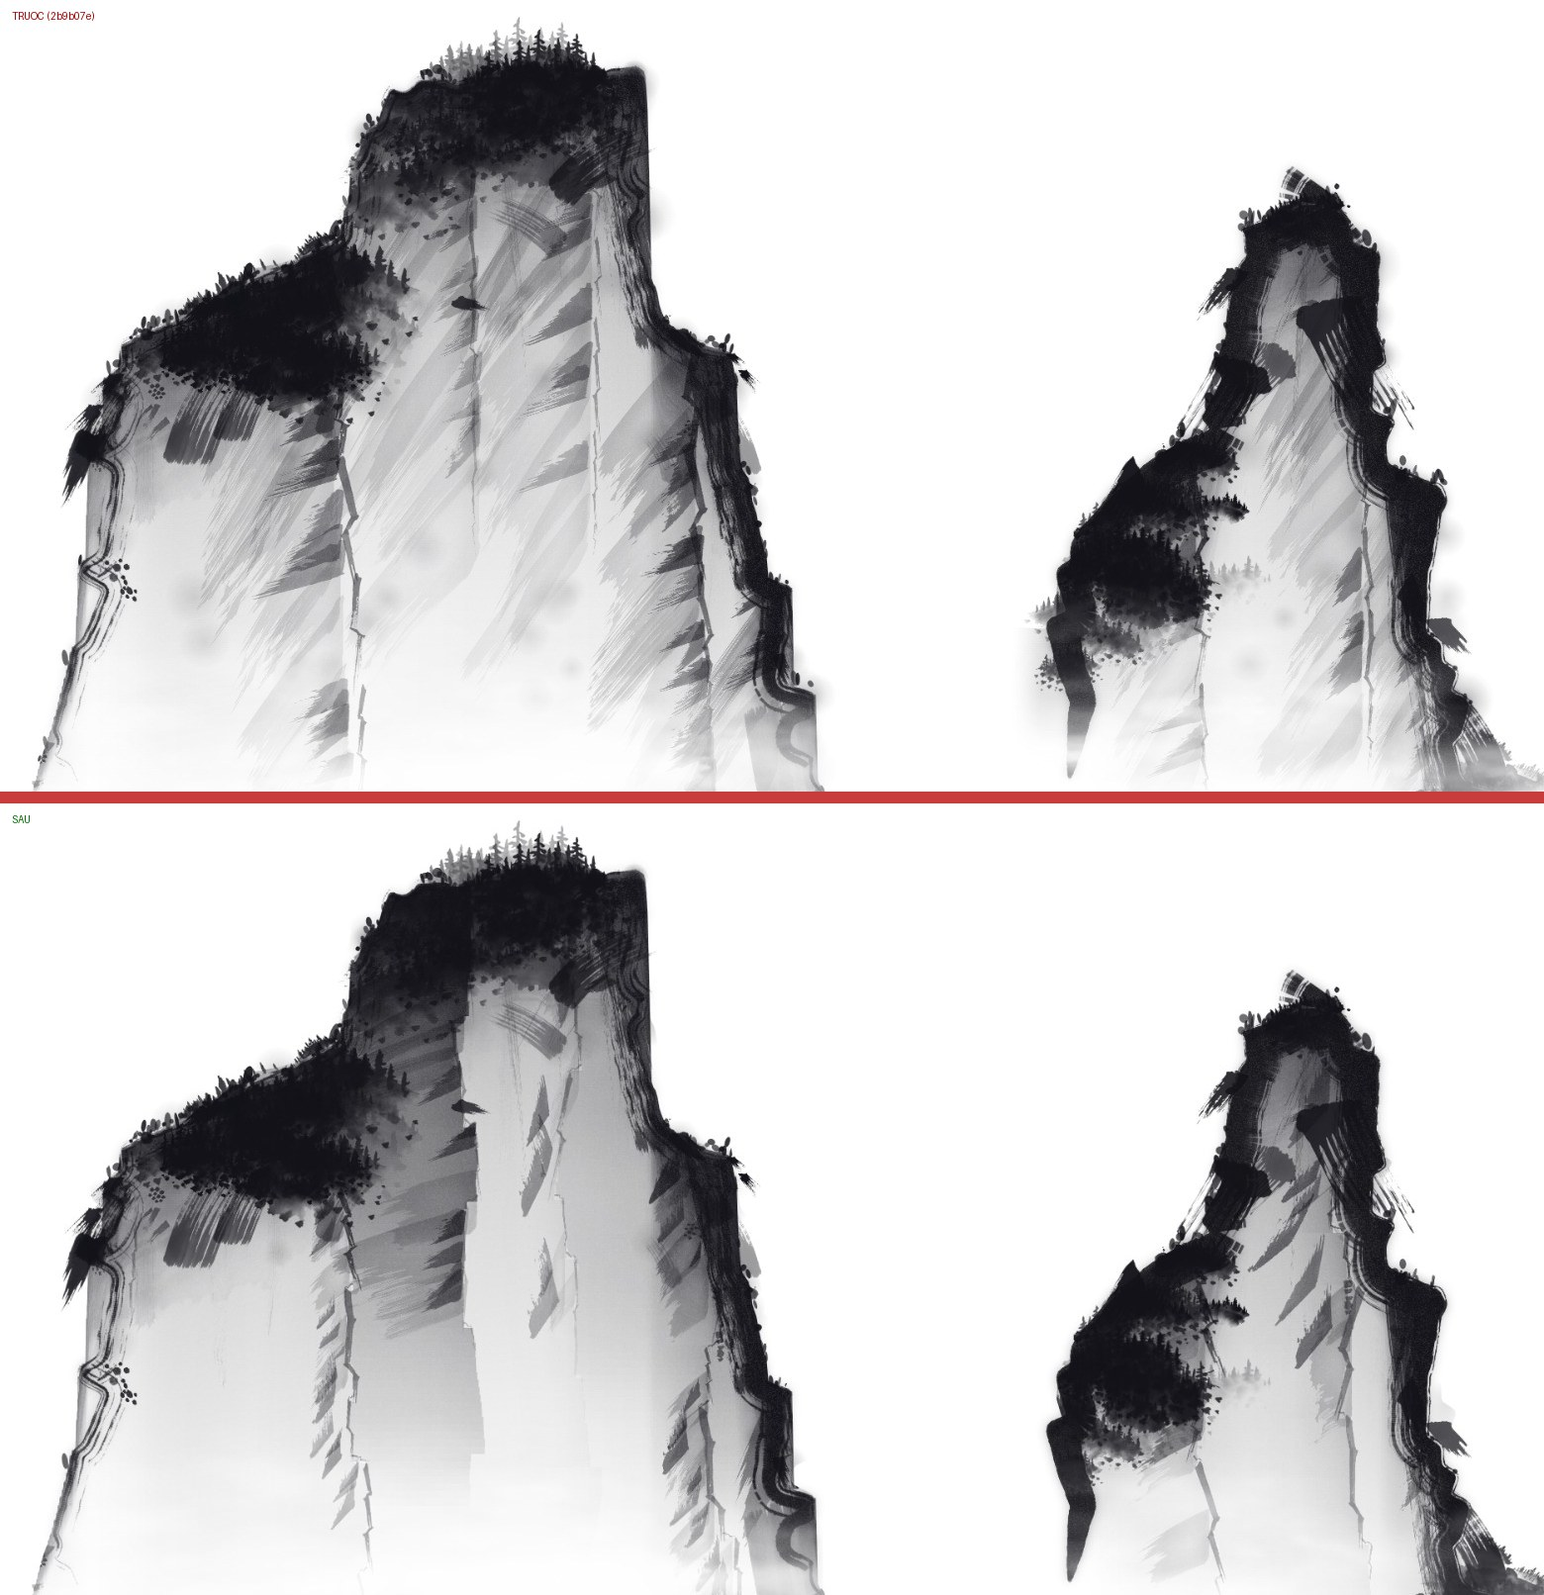
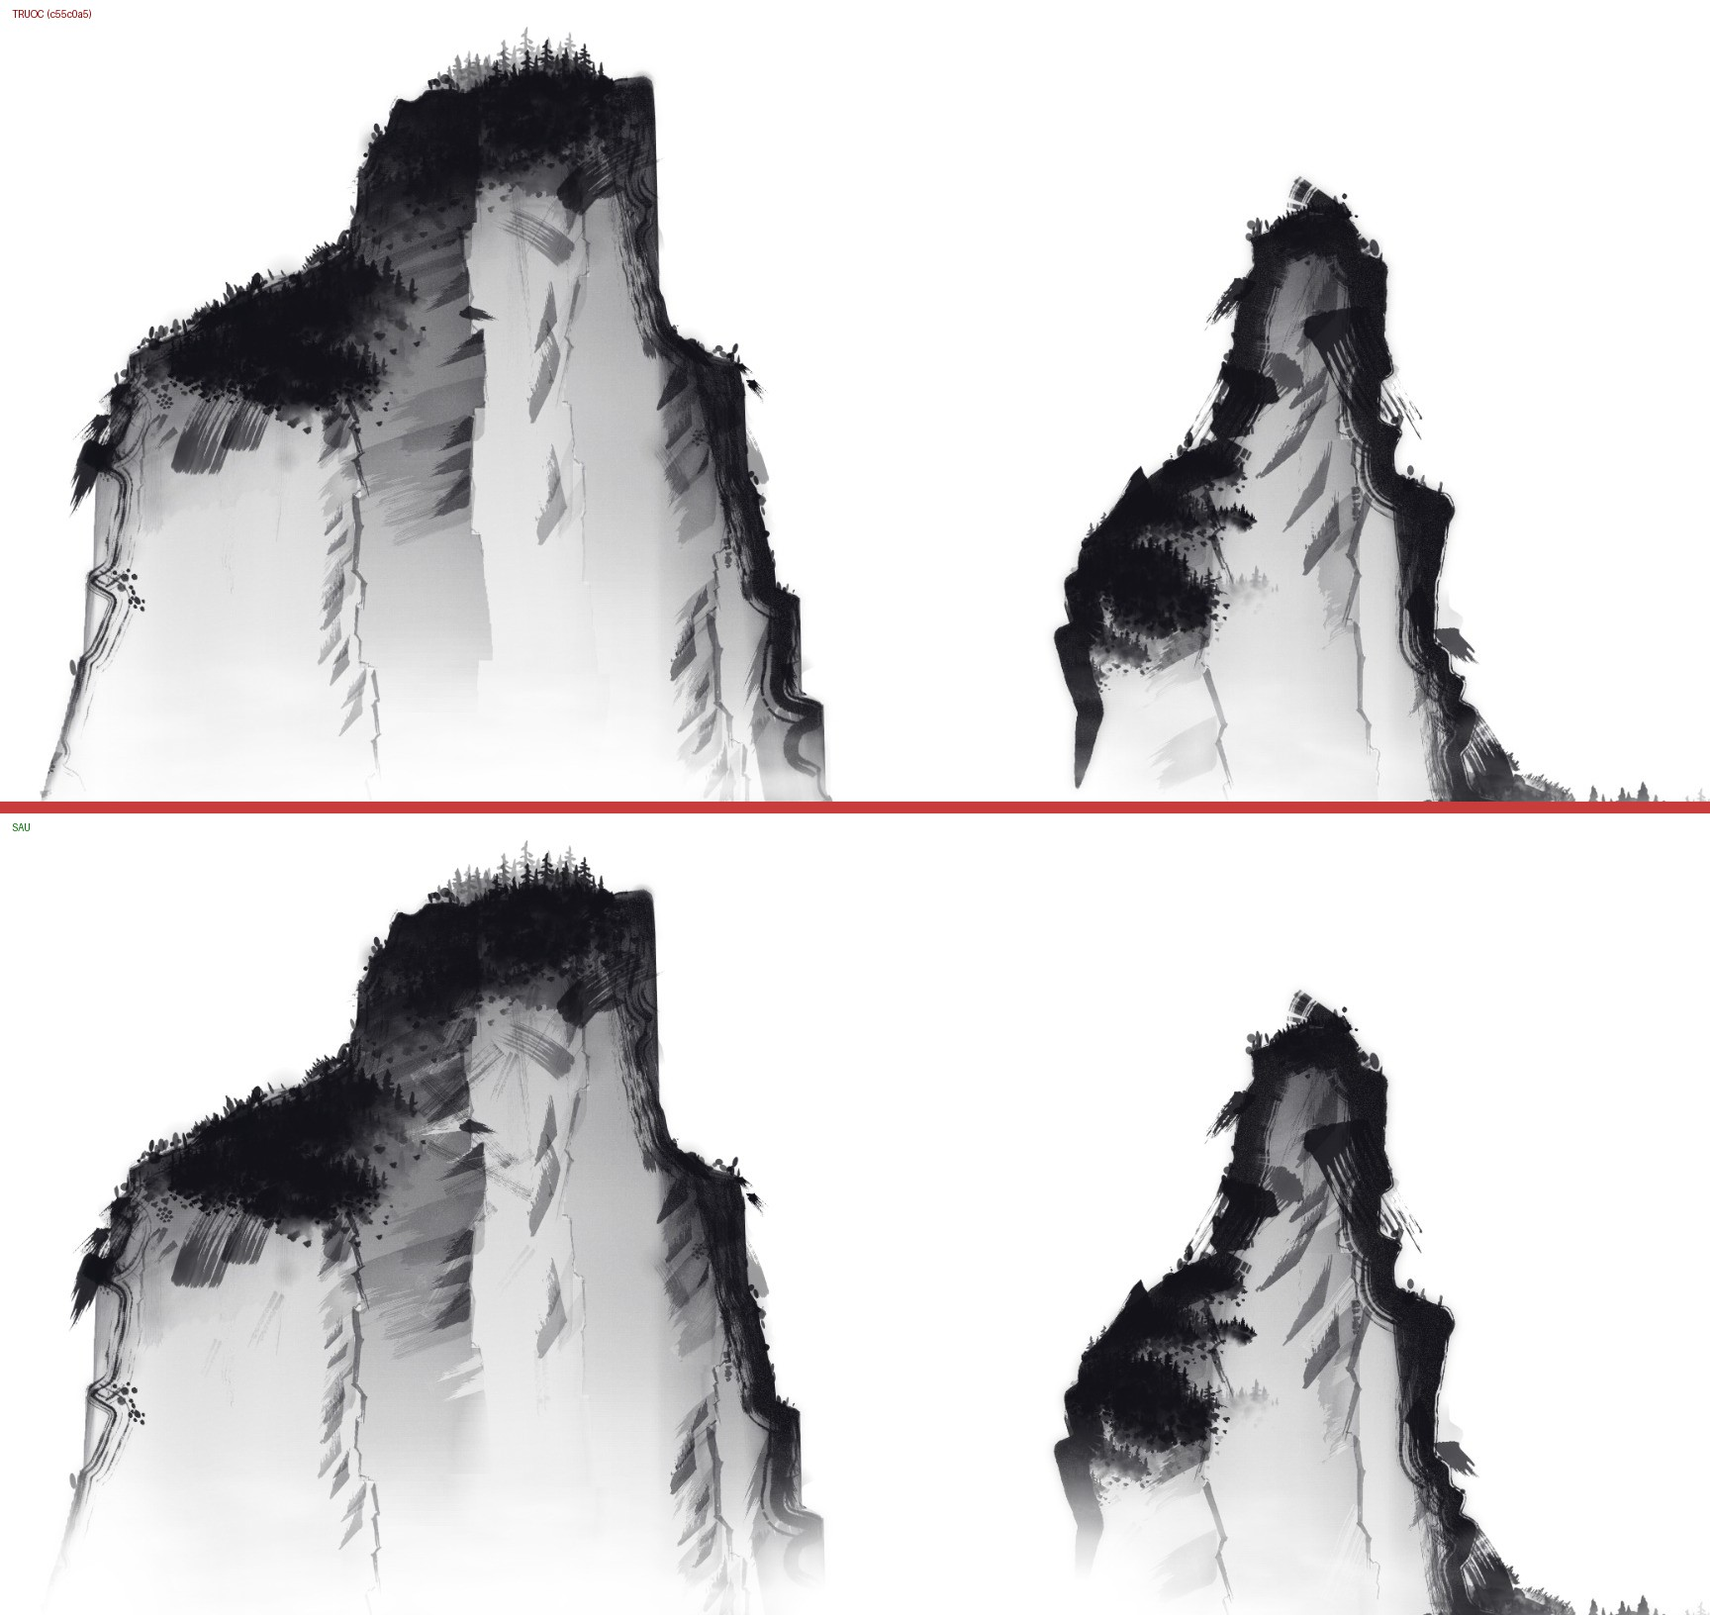
Rock mountain wall v4: torn slab edge, hemp lines on lit slabs, ends of the line lost in mist
Third critique on c55c0a5: the line between the dark slab and the lit one
beside it read as cut paper, the lit slab was bare, and a black pointed
shard stood at the right mountain's left foot.

- slab tone goes on a canvas of its own; its right edge softens below the
  foot of its crack and thins out in stretches along it
- dry drags and paper chops are wiped out of the tone along the crack, and a
  few dry drags run out of the dark slab across it
- lit slabs get a few pale hemp lines
- both ends of the ridge line that come down to the foot fade in a round of
  mist: the shard was the end of the ridge ink under an overhang

New marks use dice of their own, so v3's marks keep their places.

diff --git a/web/room/paint.js b/web/room/paint.js
@@ -520,15 +520,30 @@
               let th = clamp(0.75 - 0.45 * c.sl + 0.8 * (r3 - 0.5), 0.4, 1.2); if (Math.abs(th - pth) < 0.28) th = th > 0.8 ? th - 0.38 : th + 0.38; c.th = pth = th; c.dir = Math.PI / 2 + th; c.mode = Rk(); c.sz = 0.65 + 0.9 * Rk(); }); }
           // the tone, row by row between the column's two cracks: none at its lit left, deepening to the crack on its right; running out down the wall, unevenly.
           // (its top is the mountain's line, its sides two brushed cracks, its foot lost: no box.) Right of the last crack, the flank that looks away from the light
-          { raw(g); g.globalAlpha = 1; const RH = Math.max(2, Math.round(0.007 * H * dpr)), ink = (a) => `rgba(${INK},${clamp(a, 0, 1).toFixed(3)})`;
-            const cols = C.map((c, i) => ({ xL: (y) => i ? at(C[i - 1], y) : bx0, xR: (y) => at(c, y), tone: c.tone, lo: c.full ? 0.7 : c.tone > 0.25 ? 0.3 : 0, df: c.full ? 1 : 0.3 + 0.3 * Rk(), Lt: Math.min(0.75 * H, (c.main ? 1.25 : 1.7) * c.L /* not far past the foot of its crack: below it the tone's edge ran on plumb and ruled, a pane of glass */, c.dp * (0.65 + 0.3 * Rk())), y0: c.y0, ka: col(c.xl), kb: c.k, yfL: i ? C[i - 1].y0 + C[i - 1].L : 1e9 }));
-            if (C.length) { const c = C[C.length - 1]; if (bx1 - c.x0 > 0.03 * H) cols.push({ xL: (y) => at(c, y), xR: () => bx1, tone: (C.some((e) => e.full) ? 0.26 : 0.5) + 0.1 * Rk(), lo: 0.15, df: 0.7, Lt: Math.min(0.6 * H, c.dp * 0.6), y0: c.y0, ka: c.k, kb: nb - 1, yfL: c.y0 + c.L }); }
+          // (v3, c55c0a5, third critique Yang passed on 11-20, "8/10": the line between the dark slab and the lit one beside it a knife cut half a screen long, "dán giấy cắt",
+          // and the lit slab bare paper. The tone's right edge was hard all the way down, past the foot of its crack, with nothing on it. So: the tone is laid on a canvas of its
+          // own (tcv); below the foot of its crack a slab's right edge goes soft, as its left does; along the crack dry drags (Gemini _md, their dry run) are wiped OUT of the
+          // tone, slanting into the slab, so the edge is torn; then a few dry drags run out of the dark across the crack, and the lit slabs get a few pale hemp lines. Dice: Rn,
+          // so that every mark of v3 falls where it fell.)
+          const Rn = dice(d.seed ^ 0x7e21), dryP = (x, q, x0, y0, an, len, hh, al, u0, u1) => { const c0 = Math.cos(an), s0 = Math.sin(an); x.setTransform(dpr * c0, dpr * s0, -dpr * s0, dpr * c0, dpr * (x0 - ox), dpr * (y0 - oy)); x.globalAlpha = clamp(al, 0, 1); x.drawImage(q.im, q.w * u0, 0, q.w * (u1 - u0), q.h, 0, -hh / 2, len, hh); };
+          { const [tcv, tg] = mk(); raw(tg); tg.globalAlpha = 1; const RH = Math.max(2, Math.round(0.007 * H * dpr)), ink = (a) => `rgba(${INK},${clamp(a, 0, 1).toFixed(3)})`;
+            const cols = C.map((c, i) => ({ xL: (y) => i ? at(C[i - 1], y) : bx0, xR: (y) => at(c, y), tone: c.tone, lo: c.full ? 0.7 : c.tone > 0.25 ? 0.3 : 0, df: c.full ? 1 : 0.3 + 0.3 * Rk(), Lt: (c.Lt = Math.min(0.75 * H, (c.main ? 1.25 : 1.7) * c.L /* not far past the foot of its crack: below it the tone's edge ran on plumb and ruled, a pane of glass */, c.dp * (0.65 + 0.3 * Rk()))), y0: c.y0, ka: col(c.xl), kb: c.k, yfL: i ? C[i - 1].y0 + C[i - 1].L : 1e9, yfR: c.y0 + c.L }));
+            if (C.length) { const c = C[C.length - 1]; if (bx1 - c.x0 > 0.03 * H) cols.push({ xL: (y) => at(c, y), xR: () => bx1, tone: (C.some((e) => e.full) ? 0.26 : 0.5) + 0.1 * Rk(), lo: 0.15, df: 0.7, Lt: Math.min(0.6 * H, c.dp * 0.6), y0: c.y0, ka: c.k, kb: nb - 1, yfL: c.y0 + c.L, yfR: 1e9 }); }
             for (const o of cols) { let yT = 1e9; for (let k = o.ka; k <= o.kb; k++) yT = Math.min(yT, ts[k]); const ph = 50 * Rk(), Y1 = Math.round((o.y0 + o.Lt - oy) * dpr);
-              for (let Y = Math.round((yT - oy) * dpr); Y < Y1; Y += RH) { const y = Y / dpr + oy, wb = 0.003 * H * (2 * N(y / (0.018 * H) + ph, 2) - 1), X0 = (o.xL(y) - wb - ox) * dpr, X1 = (o.xR(y) + wb - ox) * dpr, lo = o.lo * (1 - sm((y - o.yfL) / (0.1 * H))); if (X1 - X0 < 3) continue;   // lo: below the foot of the crack on its left a slab has no hard left edge (it ran on down, ruled, with no crack to be the edge of)
+              for (let Y = Math.round((yT - oy) * dpr); Y < Y1; Y += RH) { const y = Y / dpr + oy, wb = 0.003 * H * (2 * N(y / (0.018 * H) + ph, 2) - 1), hr = 1 - sm((y - o.yfR + 0.03 * H) / (0.12 * H)), X0 = (o.xL(y) - wb - ox) * dpr, X1 = (o.xR(y) + wb - ox) * dpr, ef = hr * (0.3 + 0.7 * sm((N(y / (0.055 * H) + 3.3 * ph, 2) - 0.36) / 0.2)), lo = o.lo * (1 - sm((y - o.yfL) / (0.1 * H))); if (X1 - X0 < 3) continue;   // lo: below the foot of the crack on its left a slab has no hard left edge (it ran on down, ruled, with no crack to be the edge of). hr: nor a hard right one below the foot of its own
                 const a = o.tone * Math.pow(1 - clamp((y - o.y0) / o.Lt, 0, 1), 0.9) * (0.72 + 0.56 * N(y / (0.08 * H) + ph, 2)); if (a < 0.01) continue;
-                const gd = g.createLinearGradient(X0, 0, X1, 0); gd.addColorStop(0, ink(a * lo)); gd.addColorStop(Math.max(0.01, 1 - o.df), ink(a * (lo + 0.06))); gd.addColorStop(1 - 0.35 * o.df, ink(a * (lo + 0.55 * (1 - lo)))); gd.addColorStop(1, ink(a));
-                g.fillStyle = gd; g.fillRect(X0, Y, X1 - X0, RH); } }
-            home(g); }
+                const gd = tg.createLinearGradient(X0, 0, X1, 0), s3 = 1 - 0.35 * o.df; gd.addColorStop(0, ink(a * lo)); gd.addColorStop(Math.max(0.01, 1 - o.df), ink(a * (lo + 0.06))); gd.addColorStop(s3, ink(a * (lo + 0.55 * (1 - lo)))); gd.addColorStop(Math.max(s3 + 0.02, 1 - Math.max(0.3 * (1 - hr), 0.22 * (1 - ef))), ink(a)); gd.addColorStop(1, ink(a * ef));   // ef: in stretches the tone thins out before it reaches the crack (an edge lost and found, not one even line)
+                tg.fillStyle = gd; tg.fillRect(X0, Y, X1 - X0, RH); } }
+            // the tone's edge on the crack, torn: dry drags wiped out of it, begun just past the crack and slanting down into the slab, in clusters with whole edge between
+            if (kMD.length) { tg.globalCompositeOperation = 'destination-out';
+              for (const c of C) { if (c.tone < 0.2) continue;
+                for (let y = c.y0 + H * (0.02 + 0.05 * Rn()); y < c.y0 + Math.min(c.Lt, c.L + 0.1 * H); ) { const q = kMD[Math.floor(Rn() * kMD.length) % kMD.length], r1 = Rn(), r2 = Rn(), r3 = Rn(), r4 = Rn();
+                  if (N(y / (0.06 * H) + 43 * c.k, 2) > (c.full ? 0.3 : 0.42)) { if (r4 < 0.45 && kOA.length) { const qa = kOA[Math.floor(r3 * kOA.length) % kOA.length], an = -Math.PI / 2 + 0.3 * (r2 - 0.5), c0 = Math.cos(an), s0 = Math.sin(an), len = H * (0.015 + 0.03 * r1);   // a chop of bare paper, its crisp edge on the crack, its torn tails in the dark
+                      tg.setTransform(dpr * c0, dpr * s0, dpr * s0, -dpr * c0, dpr * (at(c, y) + 0.004 * H - ox), dpr * (y - oy)); tg.globalAlpha = 0.7 + 0.3 * r2; tg.drawImage(qa.im, 0, 0, len, H * (0.012 + 0.03 * r3) * (c.full ? 1.3 : 1)); }
+                    else dryP(tg, q, at(c, y) + 0.004 * H, y, Math.PI / 2 + 0.35 + 0.9 * r3, H * (0.04 + 0.07 * r1) * (c.full ? 1.3 : 1), H * (0.012 + 0.022 * r2), 0.6 + 0.4 * r4, 0.3, 0.95); }
+                  y += H * (0.015 + 0.04 * r1); } }
+              tg.globalCompositeOperation = 'source-over'; }
+            raw(g); g.globalAlpha = 1; g.drawImage(tcv, 0, 0); home(g); }
           // the dark flank against the crack, and only there (no further than 0.5 of the column): pale touches sheared along the column's th, in clusters, thick under the corner the crack leaves, thinning out down the wall
           for (const c of C) { const rr = Rk(), reach = c.full ? 0.8 * c.wdL : Math.min(0.4 * c.wdL, H * (0.02 + 0.035 * rr) * c.sz), bare = c.mode < 0.15 && !c.full;   // (the dark slab: touched right across, or its tone is an even film)
             if (kPD.length) for (let y = c.y0 - 0.01 * H; y < c.y0 + 0.9 * c.L; ) { const q = pk(kPD), hh = H * (0.028 + 0.05 * Rk()) * c.sz, an = c.dir + 0.3 * (Rk() - 0.5), r1 = Rk(), r2 = Rk(), f = (y - c.y0) / c.L;
@@ -541,6 +556,14 @@
                 y += len * (0.35 + 0.6 * r1); }
             if (kON.length) for (let j = 0, nN = Math.floor(2.2 * Rk()); j < nN; j++) { const q = pk(kON), y = c.y0 + c.L * 0.8 * Rk(), len = H * (0.02 + 0.025 * Rk()), hh = Math.max(0.003 * H, len * q.h / q.w); lay(q, at(c, y), y, c.dir + 0.2 * (Rk() - 0.5), len, hh, c.sh * (0.4 + 0.3 * Rk()) * fd(c, y), 1, -hh / 2); }
             if (kPM.length && Rk() < 0.3) { const q = pk(kPM), y = c.y0 + c.L * 0.6 * Rk(), len = H * (0.02 + 0.02 * Rk()), hh = len * q.h / q.w; lay(q, at(c, y), y, Math.atan2(1, c.lean), len, hh, (0.5 + 0.3 * Rk()) * fd(c, y), 1, -hh / 2); } }
+          // out of a dark slab, a few dry drags across its crack into the lit one beside it (down to the right, or flicked up to the right)
+          if (kMD.length) for (const c of C) { if (c.tone < 0.4) continue;
+            for (let j = 0, nD = c.full ? 5 + Math.floor(3 * Rn()) : Math.floor(2.5 * Rn()); j < nD; j++) { const q = kMD[Math.floor(Rn() * kMD.length) % kMD.length], y = c.y0 + Math.min(c.Lt, c.L + 0.1 * H) * (0.08 + 0.8 * Rn()), len = H * (0.06 + 0.07 * Rn()), an = Rn() < 0.55 ? 0.45 + 0.5 * Rn() : -(0.3 + 0.5 * Rn()), r = Rn();
+              dryP(g, q, at(c, y) - 0.55 * len * Math.cos(an), y - 0.55 * len * Math.sin(an), an, len, H * (0.01 + 0.02 * Rn()), c.tone * (0.55 + 0.4 * r) * Math.pow(1 - clamp((y - c.y0) / c.Lt, 0, 1), 0.7), 0.4, 0.95); } }
+          // a lit slab is rock too, not paper: a few pale, broken hemp lines down its face, far apart, clear of both cracks
+          { const kH = kXH.slice(2, 5); if (kH.length) C.forEach((c, i) => { if (c.tone > 0.2 || c.wdL < 0.05 * H) return;
+              for (let j = 0, nM = clamp(Math.round(c.wdL * c.Lt / (0.011 * H * H)), 2, 5); j < nM; j++) { const q = kH[Math.floor(Rn() * kH.length) % kH.length], fy = 0.1 + 0.5 * Rn(), y = c.y0 + c.Lt * fy, xa0 = i ? at(C[i - 1], y) : bx0, w = at(c, y) - xa0, x = xa0 + w * (0.25 + 0.45 * Rn()), len = Math.min(0.7 * w, H * (0.03 + 0.04 * Rn())), r1 = Rn(), r2 = Rn();
+                if (w > 0.04 * H) lay(q, x, y, Math.PI / 2 + 0.5 * c.th + 0.9 * (r1 - 0.5), len, len * q.h / q.w, (0.3 + 0.25 * r2) * (1 - 1.3 * fy), 1, 0)   /* paler down the wall: one low on a slab stood in the mist as a ruled double line */; } }); }
           // the cracks last, over the touches rooted on them: a piece of brushed line from joint to joint
           if (kOC.length) for (const c of C) { const Rc = c.Rc, J = c.jt; for (let j = 1, run = 0; j < J.length && run < c.L; j++) { const a = J[j - 1], b = J[j], dx = b[1] - a[1], dy = b[0] - a[0], q = kOC[Math.floor(Rc() * kOC.length) % kOC.length], l = Math.min(Math.hypot(dx, dy) * 1.08, c.L - run + 0.02 * H), hh = clamp(l * q.h / q.w * (c.main ? 1.7 : 1) * (1 - 0.6 * run / c.L), 0.004 * H, 0.02 * H);
               lay(q, a[1], a[0], Math.atan2(dy, dx), l, hh, (c.main ? 0.75 : 0.5) * (0.8 + 0.3 * Rc()) * (1 - 0.6 * run / c.L), Rc() < 0.5 ? 1 : -1, -hh / 2); run += dy; } }
@@ -811,7 +834,13 @@
     //    (The first mist, 545dcc2, lay behind the ridge and only paled the far mountain: not what was meant.)
     // A rock mountain ends in walls and its mist loses nothing of its ends (rock, below). What is painted out past them (the soft ground of the wood
     // on a low shoulder) then stood beside the wall as a faint grey box, cut off plumb by the edge of the canvas: thinned out to nothing toward that edge
-    if (d.kind === 'rockmtn') for (const x of [g, gb]) { home(x); x.globalCompositeOperation = 'destination-out'; x.globalAlpha = 1; for (const [xo, xi] of [[bx0 - pad - 5, bx0 - 0.008 * H], [bx1 + pad + 5, bx1 + 0.008 * H]]) { const gd = x.createLinearGradient(xo, 0, xi, 0); gd.addColorStop(0, 'rgba(0,0,0,1)'); gd.addColorStop(0.3, 'rgba(0,0,0,1)'); gd.addColorStop(1, 'rgba(0,0,0,0)'); x.fillStyle = gd; x.fillRect(Math.min(xo, xi), oy - 5, Math.abs(xi - xo), 6 * H); } x.globalCompositeOperation = 'source-over'; }
+    if (d.kind === 'rockmtn') for (const x of [g, gb]) { home(x); x.globalCompositeOperation = 'destination-out'; x.globalAlpha = 1; for (const [xo, xi] of [[bx0 - pad - 5, bx0 - 0.008 * H], [bx1 + pad + 5, bx1 + 0.008 * H]]) { const gd = x.createLinearGradient(xo, 0, xi, 0); gd.addColorStop(0, 'rgba(0,0,0,1)'); gd.addColorStop(0.3, 'rgba(0,0,0,1)'); gd.addColorStop(1, 'rgba(0,0,0,0)'); x.fillStyle = gd; x.fillRect(Math.min(xo, xi), oy - 5, Math.abs(xi - xo), 6 * H); }
+      // and the two ends of the line, where they come down to the foot: where a wall leans in under its outermost point the end of the ridge ink stands clear of the body,
+      // under the overhang, down to its pointed tip (r021 right mountain: "một mảnh thủy tinh đen cắm xuống", third critique 11-20). Lost in a round of mist, as the rest
+      // of the foot is. Not an end left high on the mountain (a stroke lifted at a top): that is a summit, and keeps its ink
+      for (const e of [P[0], P[n - 1]]) { const w = sm((e[1] - (yTop + 0.55 * (yBase - yTop))) / (0.25 * (yBase - yTop))), r = 0.2 * H; if (w < 0.02) continue;
+        x.save(); x.translate(e[0], e[1] + 0.02 * H); x.scale(0.8, 1); const gd = x.createRadialGradient(0, 0, 0, 0, 0, r); for (const [t, a] of [[0, 1], [0.2, 1], [0.4, 0.82], [0.6, 0.45], [0.8, 0.13], [1, 0]]) gd.addColorStop(t, `rgba(0,0,0,${a})`); x.globalAlpha = w; x.fillStyle = gd; x.fillRect(-r, -r, 2 * r, 2 * r); x.restore(); }
+      x.globalAlpha = 1; x.globalCompositeOperation = 'source-over'; }
     let mist = null, mxy = [0, 0, 1]; const tMist = performance.now();
     //    Its edge is real: the top of the sea is a band of wash that mist has eaten into (sheet D, key *_m), laid level
     //    along the sea level; each end of the ridge gets a bank that drifted in from the side (sheet E, *_e). Read as

diff --git a/DESIGN.md b/DESIGN.md
@@ -235,8 +235,16 @@ BUILT 11-20 (paint.js):
 - Glare (6)/(4), real cause found on the 3rd look: WOOD outside the figure. Wood is set by `top[k]` per bin; where the wall leans in under its outermost point (r021 right mountain, left side) forest pieces + their wet ground filled the pocket beside the wall, cut level at `top[0]` by the mass clip (white above a ruled line, grey film + pines in the air below). Fix: rockmtn wood clipped to the stroke's figure B (P closed to the base) U the same raised 0.06 H (trees standing up out of the line). `woodEnd()` lifts the clip before the marks laid OVER the wood (kLA / kLX / kXA / kLK): those stand out past the line as before.
   - TRIED for it, no use: sea of mist lowered under a ledge (kept: wood more solid, glare stays); side fade tightened to 0.04 H (reverted); wood clipped to plumb [bx0, bx1] (ruled plumb edge on the film); figure U above-the-binned-line (staircase down a steep wall: ledge wood cut plumb, white wedges)
   - wet ground of the wood (radial blots) skipped lower than 0.17 H under the line on rockmtn: was soft round blots floating on the bare wall. Dice still thrown.
-- Weak now (bot still, r021): dark slab's stepped edge a little paper-cut; its tone a smooth film low down; lit faces bare; shadow side fixed right; a soft patch with a slanted cut right of the right mountain's wall (clipped wet ground); a few pines standing on the tip of the bulge. buildMs 115-250 (noisy). Yang has not drawn it by hand.
-- Before/after: reports/rock-mountain-rock.jpg (2b9b07e vs v3).
+- 3rd critique 11-20 (pasted by Yang, on c55c0a5, "8/10"): confirmed fixed = slanting rain, one tone per slab, glare. Left: (1) line between the dark slab and the lit one = knife cut, collage; lit slab bare paper; (2) black pointed shard at the right mountain's left foot. Later, not asked now: clusters of touches still share one angle.
+- v4 (this commit), dice `Rn` for all of it, so v3's marks (dice `Rk`) fall where they fell:
+  - tone laid on its own canvas `tcv`, then drawn to g. Right edge soft below the foot of the slab's own crack (`hr`, as `lo` on its left); `ef` = lost-and-found along the crack (noise, tone thins before the crack in stretches)
+  - edge torn by destination-out on `tcv`: Gemini `_md` dry run (u 0.3-0.95) from just past the crack slanting down into the slab, or a `_oa` chop of bare paper with its crisp edge on the crack; clusters by noise, denser on the `full` slab. `dryP()` = piece of a sheet strip laid along an angle
+  - 5-7 dry `_md` drags out of the `full` slab across its crack into the lit one (down-right or flicked up-right); 0-2 for other slabs with tone >= 0.4
+  - lit slabs (tone <= 0.2, wider than 0.05 H): 2-5 pale broken hemp lines (`_xh` pieces 3-5), paler down the wall
+  - TRIED: soft edge pushed 0.03 H sideways below the crack's foot = staircase (rows are 0.007 H tall); hemp line low on a slab at full strength = ruled double line standing in the mist
+  - shard = end of the ridge ink under an overhang, clear of the body. Both ends of the line that come down into the lower ~45% of the mountain: round of destination-out (r 0.2 H, 0.8 wide) on g + gb before the mist. An end left high (stroke lifted at a top) keeps its ink.
+- Weak now (bot still, r021): mid stretch of the dark slab's edge still crisp where v3's chops head on the crack; shadow side fixed right; touches in clusters share an angle; karst=1 pillar still shows 2 clumps of wood mid-wall. buildMs 115-290 (noisy). Yang has not drawn it by hand.
+- Before/after: reports/rock-mountain-rock.jpg (c55c0a5 vs v4).
 - Weak (v1, before textures): body = flat grey wash, not "much bare paper"; no top-light / side-dark face split; ribbed band of even vertical drags on a broad wall; strokes without a mouse path (dragon off / old fixtures) count corners on their own path. Mouse-mode strokes untested. Waterfall not started.
 
 - Two independent questions. Material: stroke has broken corners (straight runs, elbows, steps) -> ROCK; smooth curve -> EARTH. Depth: feet vs waterline (as now) -> near / far.
